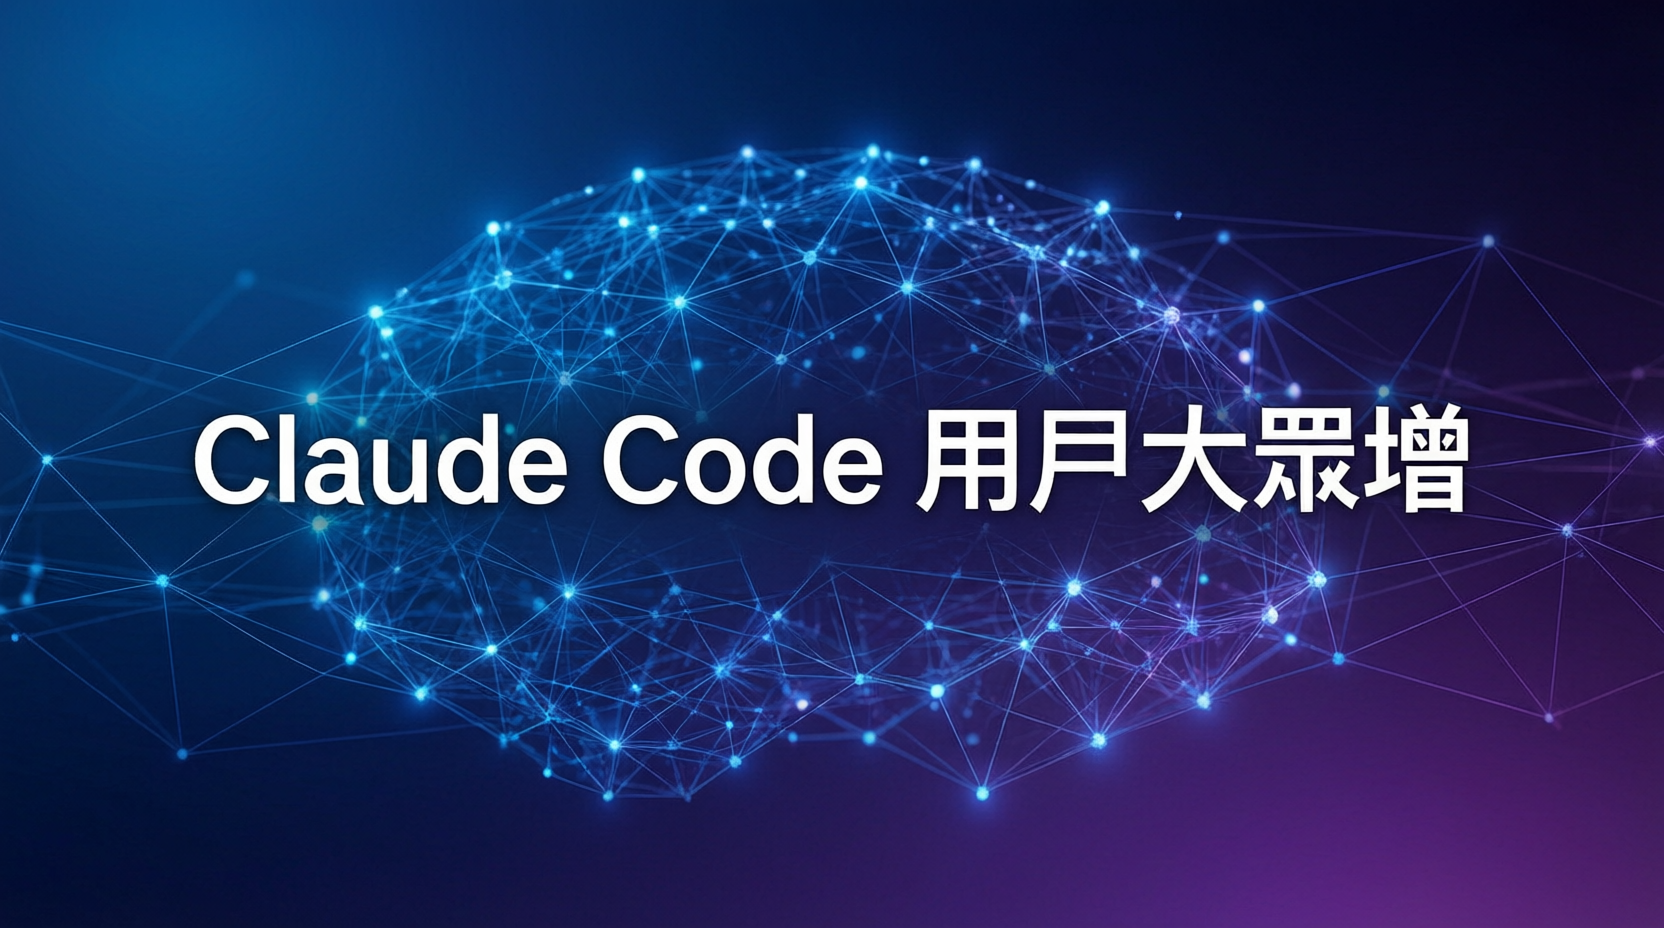
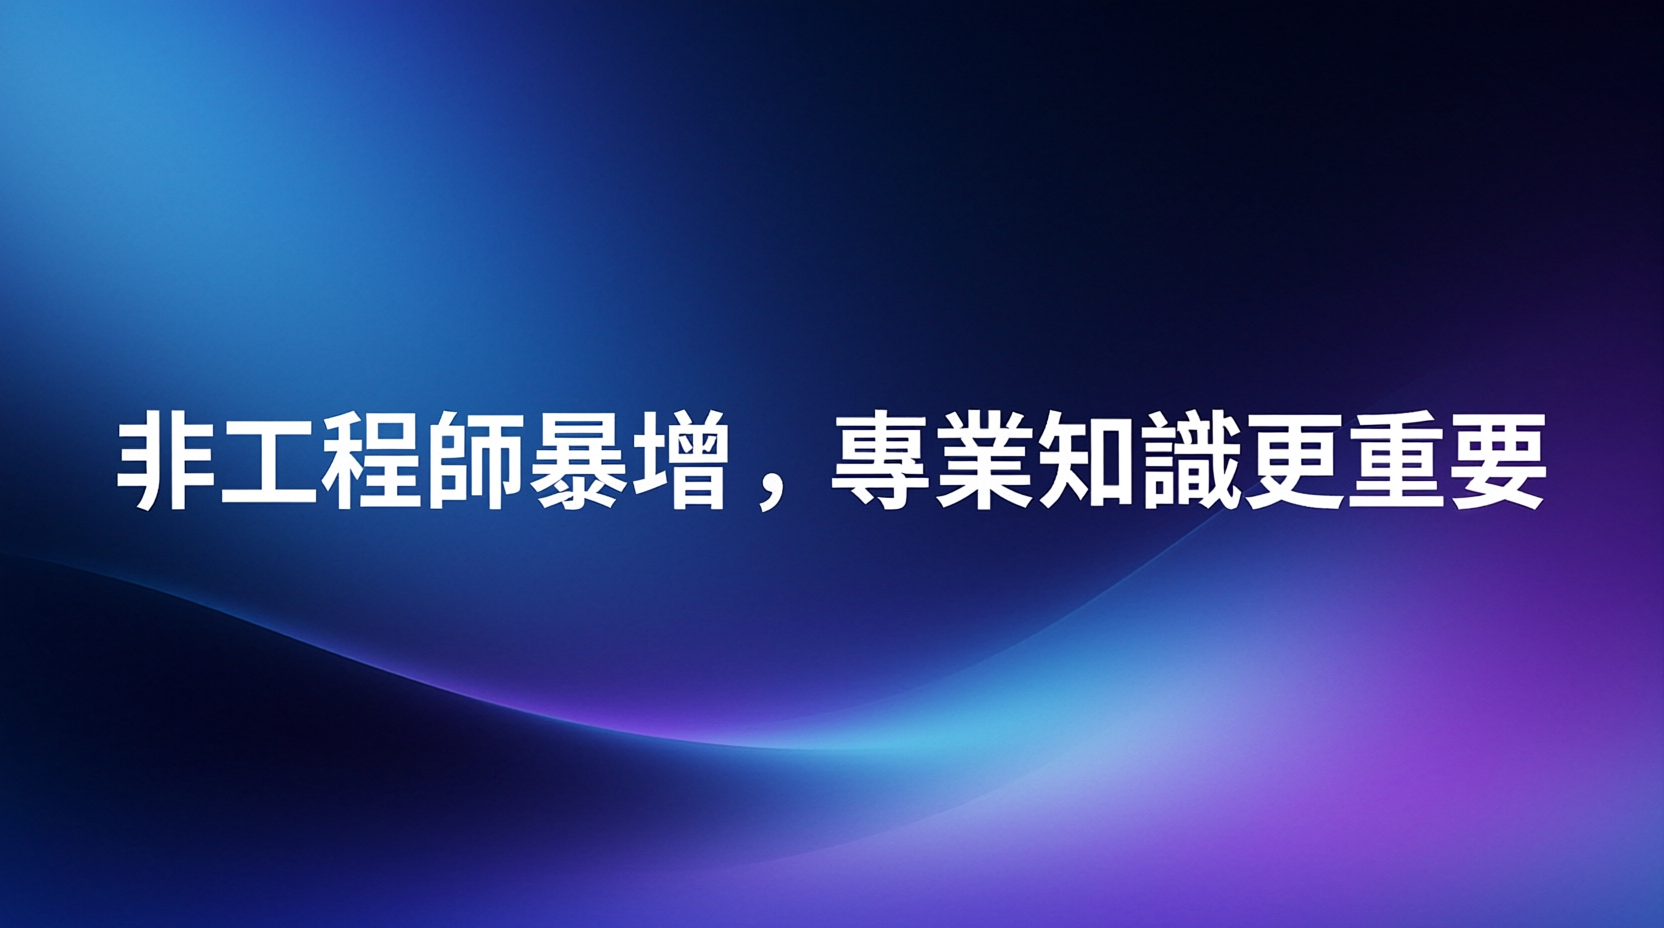
Update Claude Code article image: diverse professionals using AI

diff --git a/news_20260620_112809/index.html b/news_20260620_112809/index.html
@@ -97,7 +97,7 @@
             <p class="hero-subtitle">非工程師暴增，專業知識反而更重要</p>
             <div class="hero-images">
                 <div class="hero-image-card">
-                    <img src="img/img1.png" alt="Claude Code 用戶大眾增">
+                    <img src="img/img1.png" alt="非工程師暴增，專業知識更重要">
                 </div>
             </div>
         </div>